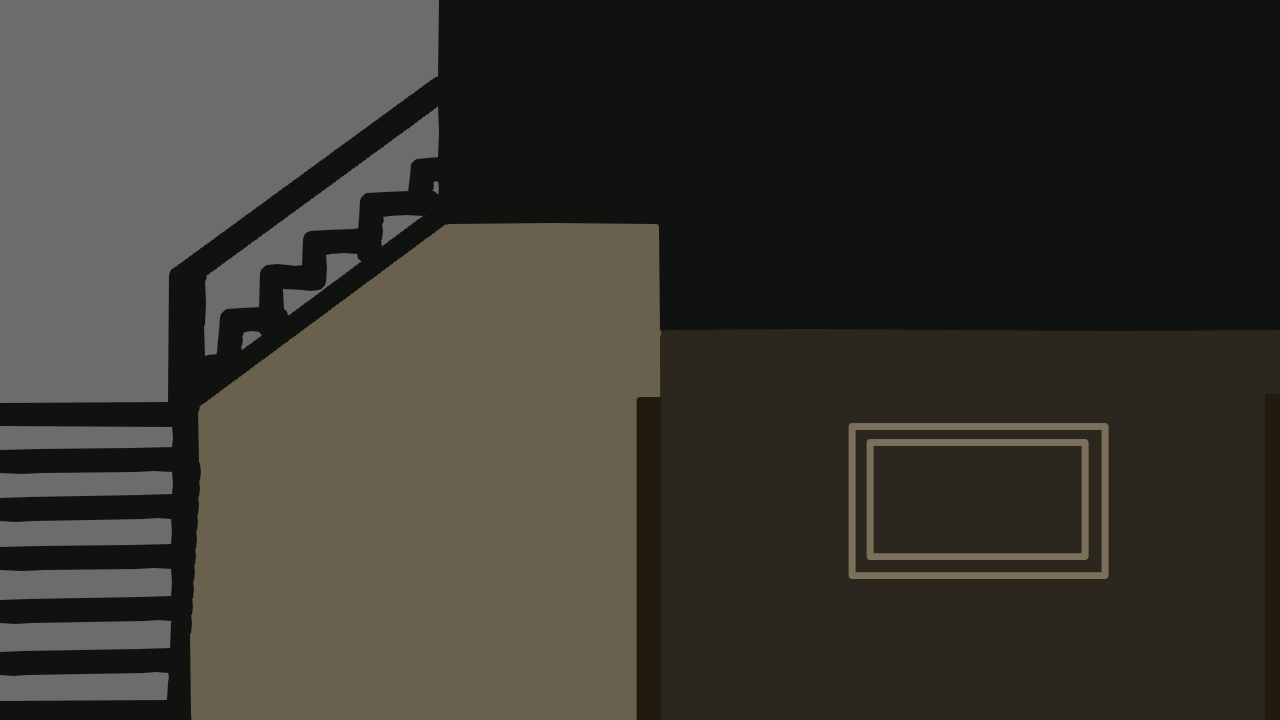
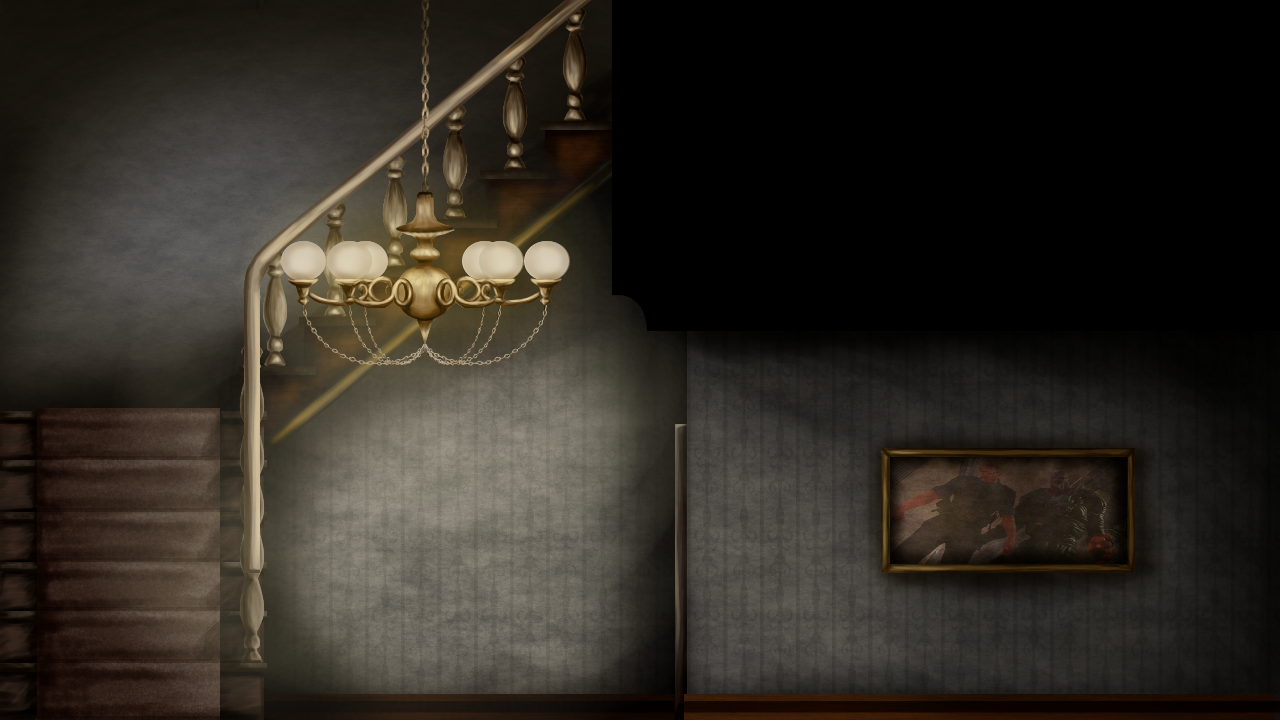
Added some of the background images, added an Easter egg

diff --git a/scenes.py b/scenes.py
@@ -25,7 +25,7 @@ class Scene:
         self.__left_wall_width = left_wall_width
         self.__right_wall_width = right_wall_width
 
-        self.__background_rect = pygame.Rect(0, 0, WIDTH, ACTUAL_HEIGHT)
+        self.__background_rect = pygame.Rect(0, 0, WIDTH, HEIGHT)
         self.__entities: list = entities
 
         self.__font = font
@@ -46,7 +46,7 @@ class Scene:
         return self.__entities
 
     def check_scene_event(self, wesker: Wesker, hud: HUD, event_key):
-        entity: Door | Enemy | EnvironmentItem
+        entity: Door | Enemy | EnvironmentItem | ItemBox | Kitty
         for entity in self.__entities:
             if entity.entity_type == 'door' and entity.scene_change_allowed() and event_key == pygame.K_f:
                 wesker.change_x_position(entity.go_to_x_coords)
@@ -55,6 +55,12 @@ class Scene:
                     (hud.inventory_empty_slot() != 5) and event_key == pygame.K_t:
                 entity.get_taken()
                 hud.add_item(entity.get_item_type(), hud.inventory_empty_slot())
+            elif entity.entity_type == 'kitty' and entity.kitty_power() and event_key == pygame.K_t:
+                entity.kitty_change_state()
+                wesker.kitty()
+            elif entity.entity_type == 'item_box' and entity.box_active() and event_key == pygame.K_t:
+                entity.get_opened()
+                self.add_entity(Kitty(self.__font))
         return 0, 0
 
     def check_scene_logic(self, wesker: Wesker, hud: HUD):
@@ -295,6 +301,124 @@ class Door:
     def __load_image(self):
         image = pygame.transform.scale(
             pygame.image.load(f'images/entity_img/door_img/{self.__image_source}.png').convert_alpha(),
+            (self.__image_width, self.__image_height),
+        )
+        return image
+
+    def draw_entity(self, screen, _):
+        screen.blit(self.__load_image(), self.__rect)
+        if self.__action:
+            self.__show_prompt(screen)
+
+
+class ItemBox:
+    def __init__(self, font: pygame.font.Font):
+        self.entity_type = 'item_box'
+
+        self.__prompt_color = pygame.Color(250, 250, 250)
+        self.__prompt_text = f'Open the Item Box'
+        self.__opened = False
+
+        self.__box_size = 180
+
+        self.__rect = pygame.Rect(620, ACTUAL_HEIGHT - self.__box_size, self.__box_size, self.__box_size)
+
+        self.__font = font
+        self.__action = False
+
+    def box_active(self):
+        return self.__action
+
+    def get_opened(self):
+        self.__opened = True
+        self.__action = False
+
+    def check_entity_logic(self, wesker: Wesker, _):
+        self.__check_box_collision(wesker)
+
+    def __check_box_collision(self, wesker: Wesker):
+        if self.__rect.colliderect(wesker.get_hitbox_rect()):
+            self.__action = True
+        else:
+            self.__action = False
+
+    def __show_prompt(self, screen):
+        prompt_surface = self.__font.render(self.__prompt_text, 1, self.__prompt_color)
+        prompt_rect: pygame.Rect = prompt_surface.get_rect()
+        prompt_rect.x = WIDTH // 2 - prompt_rect.width // 2
+        prompt_rect.y = (ACTUAL_HEIGHT + FLOOR_HEIGHT // 2) - prompt_rect.height // 2
+
+        button_rect = pygame.Rect(prompt_rect.x - 60, ACTUAL_HEIGHT + 15, 40, 40)
+        button_image = pygame.transform.scale(
+            pygame.image.load(f'images/entity_img/env_item_img/key_t.png').convert_alpha(),
+            (40, 40),
+        )
+
+        screen.blit(button_image, button_rect)
+        screen.blit(prompt_surface, prompt_rect)
+
+    def draw_entity(self, screen, _):
+        if self.__action and not self.__opened:
+            self.__show_prompt(screen)
+
+
+class Kitty:
+    def __init__(self, font: pygame.font.Font):
+        self.entity_type = 'kitty'
+
+        self.__image_source = 'kitty'
+        self.__image_width = 150
+        self.__image_height = 150
+
+        self.__prompt_color = pygame.Color(30, 90, 220)
+        self.__prompt_text = f'Accept Kitty\'s power!'
+        self.__state = False
+
+        self.__rect = pygame.Rect(630, 350, self.__image_width, self.__image_height)
+
+        self.__font = font
+        self.__action = False
+
+    def kitty_power(self):
+        return self.__action
+
+    def kitty_change_state(self):
+        if not self.__state:
+            self.__prompt_color = pygame.Color(160, 20, 20)
+            self.__prompt_text = f'Return Kitty\'s power!'
+            self.__state = True
+        else:
+            self.__prompt_color = pygame.Color(30, 90, 220)
+            self.__prompt_text = f'Accept Kitty\'s power!'
+            self.__state = False
+
+    def check_entity_logic(self, wesker: Wesker, _):
+        self.__check_kitty_collision(wesker)
+
+    def __check_kitty_collision(self, wesker: Wesker):
+        if self.__rect.colliderect(wesker.get_hitbox_rect()):
+            self.__action = True
+        else:
+            self.__action = False
+
+    def __show_prompt(self, screen):
+        prompt_surface = self.__font.render(self.__prompt_text, 1, self.__prompt_color)
+        prompt_rect: pygame.Rect = prompt_surface.get_rect()
+        prompt_rect.x = WIDTH // 2 - prompt_rect.width // 2
+        prompt_rect.y = (ACTUAL_HEIGHT + FLOOR_HEIGHT // 2) - prompt_rect.height // 2
+
+        button_rect = pygame.Rect(prompt_rect.x - 60, ACTUAL_HEIGHT + 15, 40, 40)
+        button_image = pygame.transform.scale(
+            pygame.image.load(f'images/entity_img/env_item_img/key_t.png').convert_alpha(),
+            (40, 40),
+        )
+
+        screen.blit(button_image, button_rect)
+        screen.blit(prompt_surface, prompt_rect)
+
+    def __load_image(self):
+        image = pygame.transform.scale(
+            pygame.image.load(f'images/character_img/kitty.png').convert_alpha(),
             (self.__image_width, self.__image_height),
         )
         return image

diff --git a/scripts.py b/scripts.py
@@ -216,7 +216,7 @@ def script_dark_corridor(scene: Scene, wesker: Wesker, screen: pygame.Surface, c
     line_rect.x = WIDTH // 2 - line_rect.width // 2
     line_rect.y = (ACTUAL_HEIGHT + FLOOR_HEIGHT // 2) - line_rect.height // 2
 
-    floor_color = (10, 10, 10)
+    floor_color = (0, 0, 0)
     floor_rect = pygame.Rect(0, ACTUAL_HEIGHT, WIDTH, FLOOR_HEIGHT)
 
     wesker.change_x_velocity(0)
@@ -271,7 +271,7 @@ def script_garden_shed(scene: Scene, wesker: Wesker, screen: pygame.Surface, clo
     line_rect.x = WIDTH // 2 - line_rect.width // 2
     line_rect.y = (ACTUAL_HEIGHT + FLOOR_HEIGHT // 2) - line_rect.height // 2
 
-    floor_color = (10, 10, 10)
+    floor_color = (0, 0, 0)
     floor_rect = pygame.Rect(0, ACTUAL_HEIGHT, WIDTH, FLOOR_HEIGHT)
 
     wesker.change_x_velocity(0)
@@ -417,7 +417,7 @@ def script_gh_gallery(scene: Scene, wesker: Wesker, screen: pygame.Surface, cloc
     line_rect.x = WIDTH // 2 - line_rect.width // 2
     line_rect.y = (ACTUAL_HEIGHT + FLOOR_HEIGHT // 2) - line_rect.height // 2
 
-    floor_color = (10, 10, 10)
+    floor_color = (0, 0, 0)
     floor_rect = pygame.Rect(0, ACTUAL_HEIGHT, WIDTH, FLOOR_HEIGHT)
 
     wesker.change_x_velocity(0)
@@ -651,7 +651,7 @@ def script_altar(scene: Scene, wesker: Wesker, screen: pygame.Surface, clock: py
     line_rect.x = WIDTH // 2 - line_rect.width // 2
     line_rect.y = (ACTUAL_HEIGHT + FLOOR_HEIGHT // 2) - line_rect.height // 2
 
-    floor_color = (10, 10, 10)
+    floor_color = (0, 0, 0)
     floor_rect = pygame.Rect(0, ACTUAL_HEIGHT, WIDTH, FLOOR_HEIGHT)
 
     wesker.change_x_velocity(0)

diff --git a/wesker.py b/wesker.py
@@ -72,6 +72,8 @@ class Wesker:
         self.__firing_delay = 0
         self.have_fired = False
 
+        self.__kitty = False
+
     def get_movement_keys(self):
         return self.__direction.keys()
 
@@ -169,8 +171,9 @@ class Wesker:
         self.__update_hitbox_rect()
 
     def __load_wesker_image(self, image_path):
+        kitty = '_kitty' if self.__kitty else ''
         image = pygame.transform.scale(
-            pygame.image.load(f'images/wesker_img/{image_path}.png').convert_alpha(),
+            pygame.image.load(f'images/wesker_img/{image_path + kitty}.png').convert_alpha(),
             (self.__image_width, self.__image_height),
         )
         return image
@@ -190,7 +193,8 @@ class Wesker:
             if self.__firing and (self.__firing_delay == 0) and (self.__ammo > 0):
                 self.__firing_delay = pygame.time.get_ticks() + 500
                 self.have_fired = True
-                self.__ammo = max(0, self.__ammo - 1)
+                if not self.__kitty:
+                    self.__ammo = max(0, self.__ammo - 1)
                 self.__state = self.__possible_states[12 + self.__last_direction]
             else:
                 self.__state = self.__possible_states[10 + self.__last_direction]
@@ -243,6 +247,9 @@ class Wesker:
 
     def change_state(self, state):
         self.__state = state
+
+    def kitty(self):
+        self.__kitty = not self.__kitty
 
     def get_hitbox_rect(self):
         return self.__hitbox_rect

diff --git a/game.py b/game.py
@@ -3,7 +3,7 @@ import pygame
 from constants import WIDTH, HEIGHT, FPS, ACTUAL_HEIGHT, FLOOR_HEIGHT
 from wesker import Wesker
 from hud import HUD
-from scenes import Scene, Door, Enemy, EnvironmentItem
+from scenes import Scene, Door, Enemy, EnvironmentItem, ItemBox
 from scripts import (script_main_hall, script_gh_corr, script_gh_gallery,
                      script_enrico_room, script_altar, script_main_lab,
                      script_east_wing_stairway, script_dark_corridor, script_garden_shed,
@@ -411,7 +411,8 @@ class Game:
             Door(0,
                  'empty_door', 150, 270,
                  7, 6, 'East Wing Stairway', WIDTH // 2,
-                 self.__font_special)
+                 self.__font_special),
+            ItemBox(self.__font_special)
         ]
 
         # roofed_passage - 8
@@ -657,7 +658,7 @@ class Game:
                          Scene(6, 'east_wing_stairway', east_wing_stairway,
                                self.__font_special),
                          Scene(7, 'east_wing_storeroom', east_wing_storeroom,
-                               self.__font_special, 0, 490),
+                               self.__font_special, 0, 490, overlay_image=True),
                          Scene(8, 'roofed_passage', roofed_passage,
                                self.__font_special, 200),
                          Scene(9, 'garden_shed', garden_shed,
